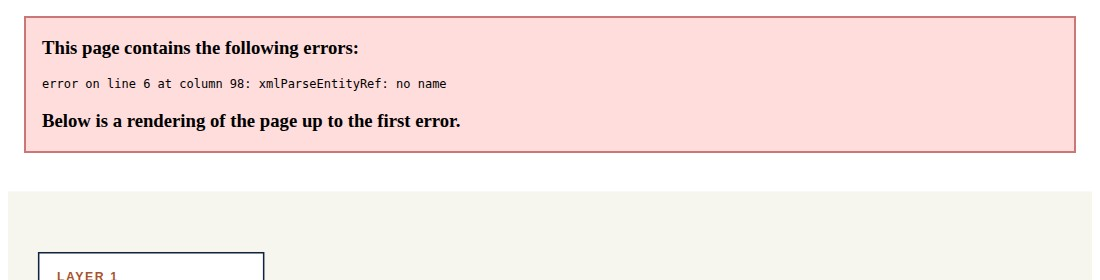
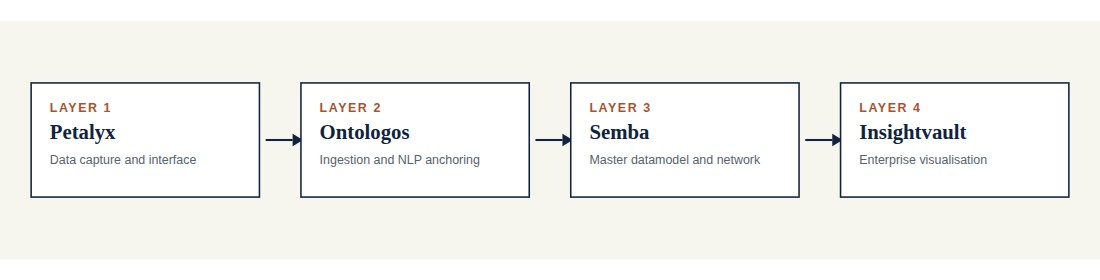
Add files via upload

diff --git a/technology.html b/technology.html
@@ -77,13 +77,9 @@
   </section>
 
   <div class="wrap">
-    <div class="cols">
-      <div>
-        <img src="assets/img/lead-developer.jpg" alt="Lead Developer" style="max-width:220px; border:1px solid var(--line);">
-      </div>
-      <div>
-        <p class="slate">Lead Developer<br>1st Class BSc Hons in Digital Media.<br>UX and Product Design Guru.</p>
-      </div>
+    <div style="display:flex; gap:20px; align-items:flex-start; max-width:520px;">
+      <img src="assets/img/lead-developer.jpg" alt="Lead Developer" style="width:140px; flex-shrink:0; border:1px solid var(--line);">
+      <p class="slate" style="margin:0;"><strong>Lead Developer</strong><br>1st Class BSc Hons in Digital Media.<br>UX and Product Design Guru.</p>
     </div>
   </div>
 